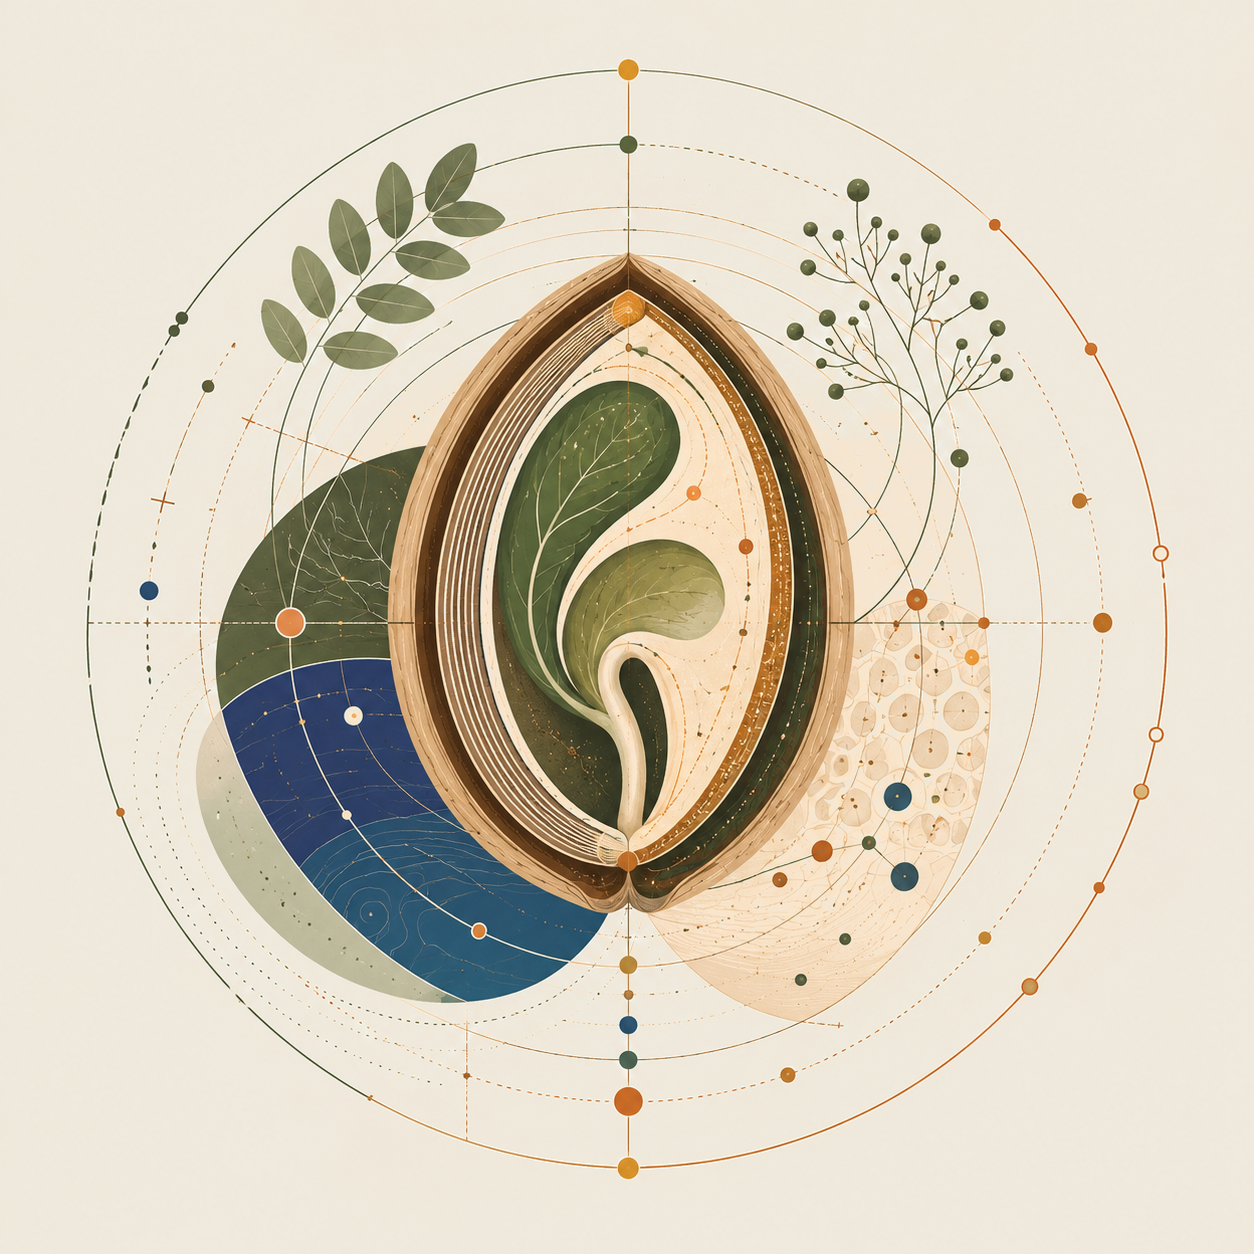
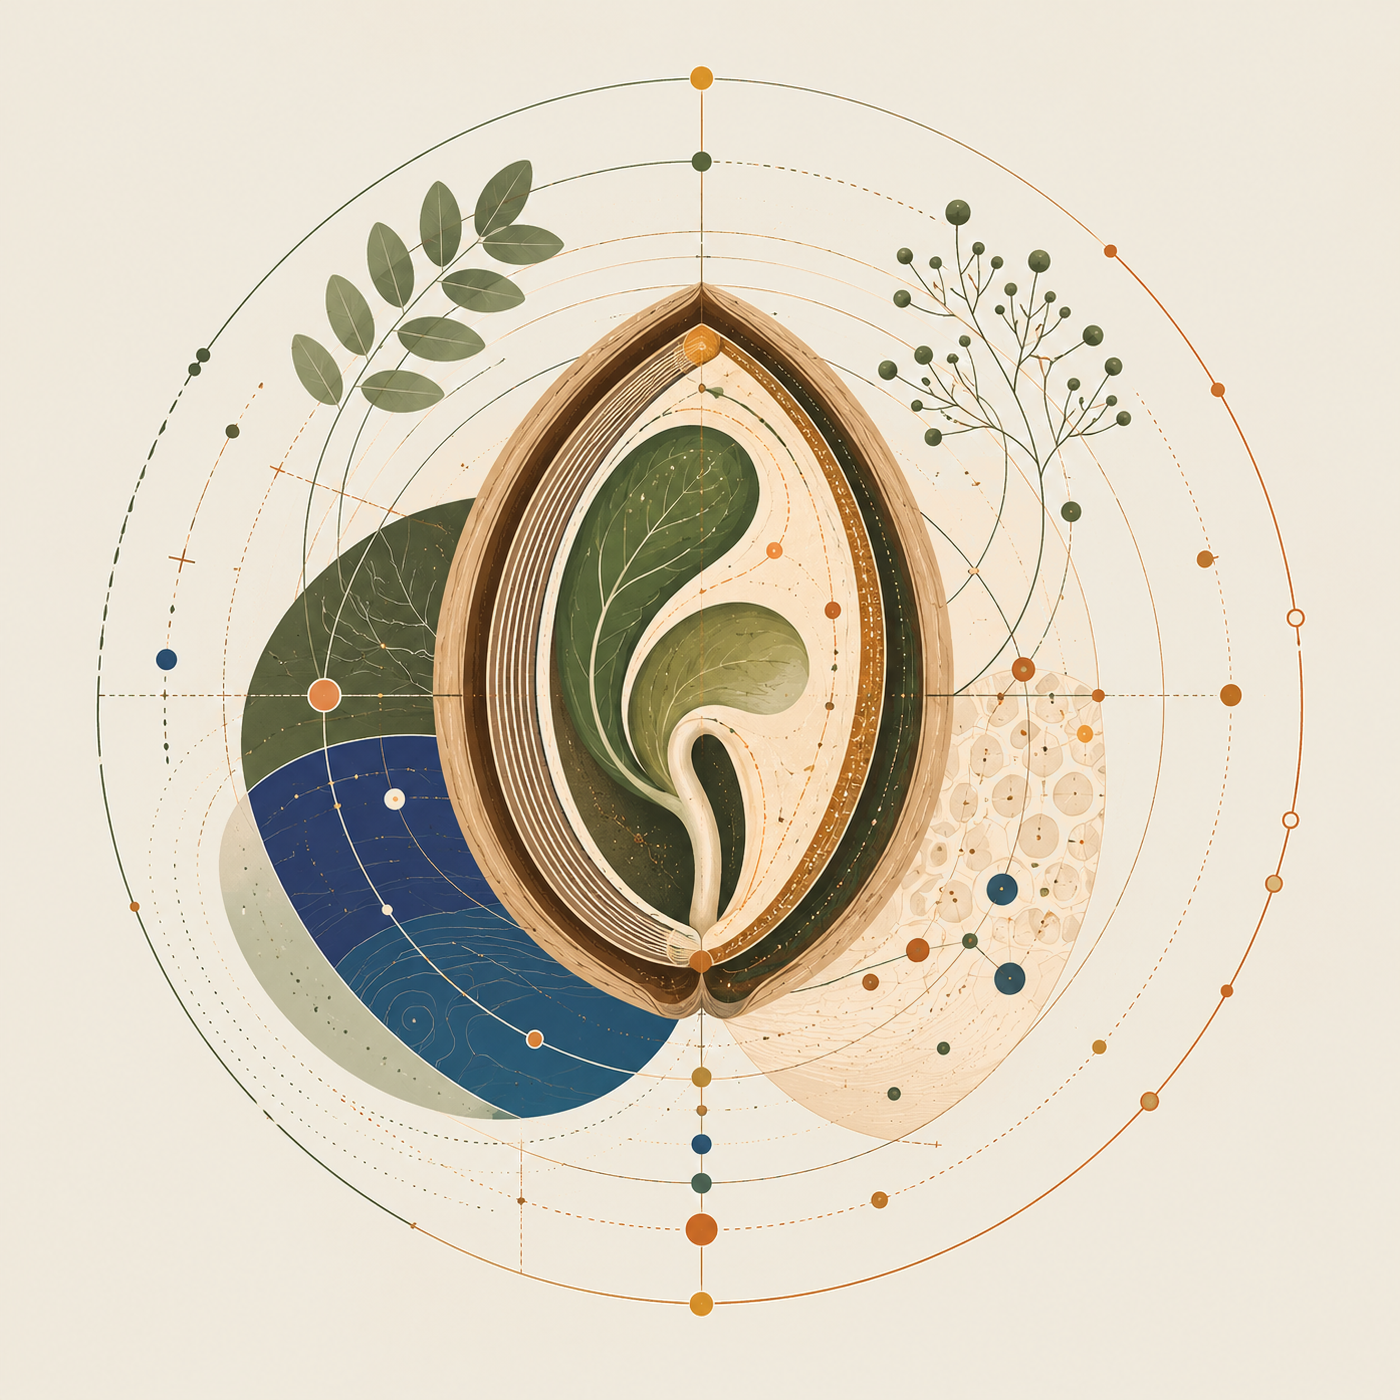
The seed cover at 200 dpi: an upscale is the larger file of the same image the manifest asked for

Changed region(s): [[0.4354, 0.2799, 0.4665, 0.311]]

diff --git a/prompts/image-manifest.md b/prompts/image-manifest.md
@@ -63,7 +63,7 @@ the next build, so the proof PDF always shows exactly what has and has not been 
 | ground-07-convergent-routes | The Body Cannot Skip the Hill | Stage V | Under the first two-column reading spread, across both pages | illustration | A route study: two dozen fine wandering lines entering from the edges of the frame and converging on a single point, each drawn the way a walked path actually goes — meandering, doubling back, never straight. Small plotted points at irregular intervals along each route, like recorded stops. A diffuse rust wash around the convergence. **Composition, and this is the part that matters most.** The drawing runs across a two-page spread, so it is one continuous field 8000 px wide. Two columns of body copy sit in the UPPER HALF of BOTH pages, so the upper half must be nearly empty — a few stray marks at most. Put the density in the LOWER HALF. Keep the middle 400 px calm, because that is the fold. The bottom-left quarter is covered by a photograph on the page, so anything you put there will not be seen: weight the drawing toward the lower right. Put the convergence point low and to the right, well off the fold. Routes may cross the upper half only as single hairlines with no plotted points on them, so the text still reads. | Many separate walks, arriving at the same place. | Pilgrimage drawn as data rather than as devotion. | 2:1 | 8000 × 4000 px | ground-07-convergent-routes.png | generated | — | Section corrected 22 Aug 2026 from “Stage IV” to “Stage V”: the label had drifted a stage behind its essay. The artwork was checked on the page and is right for the ground it lands on — pale linework on charcoal for the dark stages — so this was documentation drift, not a visual fault. Every ground sits on a two-column reading spread, which is TWO pages, so it is 2:1 and the layout gives each page its half. Verified in the paginator 19 Aug 2026. Stage 5: warm paper, so the ink is charcoal. |
 | ground-08-nested-systems | While We’re Here | Stage V | Under the first two-column reading spread, across both pages | illustration | Nested systems drawn as concentric irregular rings — six of them, each a visibly different kind of line: cellular stipple at the innermost, then a branching vascular line, then a street-grid fragment, then an ecological web, then a circuit trace, then a slow astronomical arc at the outermost. One very small human figure standing near the center, no larger than a few millimetres at full size. A diffuse warm amber wash at the center only, fading outward to nothing. **Composition, and this is the part that matters most.** The drawing runs across a two-page spread, so it is one continuous field 8000 px wide. Two columns of body copy sit in the UPPER HALF of BOTH pages, so the upper half must be nearly empty — a few stray marks at most. Put the density in the LOWER HALF. Keep the middle 400 px calm, because that is the fold. The bottom-left quarter is covered by a photograph on the page, so anything you put there will not be seen: weight the drawing toward the lower right. The whole nested figure sits LOW and to the RIGHT, with the outermost arcs running off the bottom and right edges. The six rings must each be a visibly different kind of line, or the whole thing collapses into a target. | Body, family, city, ecosystem, technology, time — and one person inside all of them. | The last ground in the book, and the one that gathers every system the other seven drew separately. | 2:1 | 8000 × 4000 px | ground-08-nested-systems.png | generated | — | Every ground sits on a two-column reading spread, which is TWO pages, so it is 2:1 and the layout gives each page its half. Verified in the paginator 19 Aug 2026. Stage 5: warm paper, so the ink is charcoal. |
 | cover-03-circular-systems | — | Cover | Front cover — the `orb` variant | illustration | The same watercolour-and-ink systems drawing as the existing cover artwork, but composed inside a single circle: a bounded circular field of view, hard-edged, sitting on warm cream paper. NOT empty outside it — the earlier version said "with nothing outside it" and there are four small circular vignettes in the cream around it and several tiny human figures for scale along the bottom. src/styles/cover.css already says the same thing from the other side: the orb treatment turns its clip off for this artwork precisely because it has "inset figures and scale figures outside it in the cream". Inside the circle, read as a whole world without ever resolving into the Earth — broad atmospheric bands of teal and slate curving with the sphere near one limb; a swirl of current or weather blooming in rust, amber and coral across the middle; fine contour lines banding the surface the way isobars band a planet; a branching network of hairlines running through it like root systems or river deltas or blood vessels, deliberately impossible to say which. Small plotted points and connecting lines scattered across it. Two or three tiny human figures standing at the very edge of the circle, at the scale of a millimetre, so the size of the thing is unmistakable. A few small circular inset diagrams outside the main circle, in the cream, like detail figures from the same study. | A circular field of view is the drawing an astronomer and a microscopist both make. At this scale it could be a planet or it could be a single drop of pond water, and the book cannot tell you which — which is the argument: the scale is arbitrary, the attention is what changes. | An alternative cover artwork for the `orb` treatment. A circle on a square is the strongest graphic move available on a 300 mm cover, and it makes the title's 'here' mean somewhere. | 1:1 | 1024 × 1024 px (ChatGPT's largest for 1:1 — 82 dpi at 318 mm) | cover-03-circular-systems.png | generated | — | Transparent PNG or warm cream ground. **Not the Earth**: no recognisable continents, no coastlines, no blue-marble colouring, no latitude/longitude graticule, no space, no stars, no glow or lens flare, no terminator line dividing day from night. The circle is drawn — very slightly out of true, with a hand-inked edge — not rendered as a lit sphere. Keep the upper third of the circle quieter: on the `orb` cover the title sits above and slightly over it. Target lowered 20 Aug 2026 to the largest canvas ChatGPT actually produces. The previous figure asked for a resolution no available generator could reach. Regrounded 20 Aug 2026 with scripts/reground.py: it was drawn on its own cream, (243, 239, 229), four to nine values light of the page, and unclipped that reads as a pale panel on the board. The paper is now #EFE9DC and the drawing is untouched — the correction is weighted by distance from the paper color, so the rust bloom moved by zero. Do not clip this artwork to hide its ground; the inset figures and the millimetre-high scale figures live outside the circle. |
-| cover-04-seed-section | — | Cover | Back cover — the whole board, centred, with the type above and below it | illustration | A seed drawn in longitudinal section, upright at the center of a square cream field. Its coat is laminated into many fine concentric strata of tan and brown — the left flank reads almost exactly like the fore-edge of a stack of pages — closing to a point at the top and at the base. Inside, a pale endosperm holds a green cotyledon with its venation drawn, curled around a cream hypocotyl that hooks down and out through the base of the coat. A hairline vertical axis runs the full height of the image through the seed's point, strung with dots of ochre, rust, teal and green at intervals; a fainter horizontal axis crosses it at mid-height. Around the seed, five or six concentric circles in dark green and rust, some solid and some dashed, are drawn slightly off a common center, with filled and open dots set on them at intervals like readings. A pinnate compound leaf of about a dozen sage leaflets lies across the upper left; a fine branching sprig carrying small round green buds stands at the upper right. Behind and below the seed, flat overlapping fields form a rough disc: dark olive carrying faint branching veins, cobalt, a mid blue banded with contour swirls, and pale sage on the left; on the right a cream field packed with circular cell-like shapes and scattered plotted points joined by hairlines. A small registration cross sits at the upper left. | The thing that already contains what it will become. The same refusal to settle that the front cover makes — cell, planet, root system, map — organised here around a seed in section, with the book's own survey notation laid over it. | The back cover. Adam generated this on 22 Aug 2026, chose it for the back board on 23 Aug, and asked for it large and centred rather than a small plate in the corner. Covers sit outside the 130-page interior ceiling, so it costs no pages. | 1:1 | 1254 × 1254 px as supplied — 106 dpi at the full 300 mm board | cover-04-seed-section.png | generated | — | Supplied at 1254 px square. RUNS AT 106 dpi ON THE BOARD as printed — Adam chose the full-board treatment over the 92 mm plate that would have given it 346. The book has accepted this before and knowingly: cover-03 sits at 82 dpi. What is at risk at this figure is what the drawing is made of, the concentric hairlines and the dots set on them; the flat colour fields and the seed itself will be untroubled. If a larger file of the same image can be generated it should replace this one, and nothing else has to change. Regrounded 23 Aug 2026 with scripts/reground.py: it arrived on its own cream at (253, 241, 225), fourteen values light of the page in red, which would have read as a bright rectangle on a cream board. Paper is now #EFE9DC and the drawing is untouched. NOT A DIAGRAM: the rings, axes and dots are notation, not measurement — they encode nothing, exactly as the front cover's orbital marks encode nothing. That is allowed on a cover and is not allowed on an interior plate, where every drawn plate in this book states something true. |
+| cover-04-seed-section | — | Cover | Back cover — the whole board, centred, with the type above and below it | illustration | A seed drawn in longitudinal section, upright at the center of a square cream field. Its coat is laminated into many fine concentric strata of tan and brown — the left flank reads almost exactly like the fore-edge of a stack of pages — closing to a point at the top and at the base. Inside, a pale endosperm holds a green cotyledon with its venation drawn, curled around a cream hypocotyl that hooks down and out through the base of the coat. A hairline vertical axis runs the full height of the image through the seed's point, strung with dots of ochre, rust, teal and green at intervals; a fainter horizontal axis crosses it at mid-height. Around the seed, five or six concentric circles in dark green and rust, some solid and some dashed, are drawn slightly off a common center, with filled and open dots set on them at intervals like readings. A pinnate compound leaf of about a dozen sage leaflets lies across the upper left; a fine branching sprig carrying small round green buds stands at the upper right. Behind and below the seed, flat overlapping fields form a rough disc: dark olive carrying faint branching veins, cobalt, a mid blue banded with contour swirls, and pale sage on the left; on the right a cream field packed with circular cell-like shapes and scattered plotted points joined by hairlines. A small registration cross sits at the upper left. | The thing that already contains what it will become. The same refusal to settle that the front cover makes — cell, planet, root system, map — organised here around a seed in section, with the book's own survey notation laid over it. | The back cover. Adam generated this on 22 Aug 2026, chose it for the back board on 23 Aug, and asked for it large and centred rather than a small plate in the corner. Covers sit outside the 130-page interior ceiling, so it costs no pages. | 1:1 | 2508 × 2508 px — 200 dpi at the full 300 mm board (EDSR 2× from the 1254 px original) | cover-04-seed-section.png | generated | — | UPSCALED 2× 23 Aug 2026 with EDSR (eugenesiow/edsr-base), 1254 → 2508 px, 106 → 200 dpi on the board. The manifest's own instruction was already standing: 'if a larger file of the same image can be generated it should replace this one, and nothing else has to change' — and an upscale is a larger file of exactly the same image, which regeneration would not have been. Judged before replacing, at the ring band where the drawing is most at risk: the dashed rust arcs and the white venation resolve as continuous strokes, against Lanczos's halo and the native file's stair-steps. EDSR is a conservative model — no invented detail. The 1254 px original is preserved in git history. — earlier note follows. Supplied at 1254 px square. RUNS AT 106 dpi ON THE BOARD as printed — Adam chose the full-board treatment over the 92 mm plate that would have given it 346. The book has accepted this before and knowingly: cover-03 sits at 82 dpi. What is at risk at this figure is what the drawing is made of, the concentric hairlines and the dots set on them; the flat colour fields and the seed itself will be untroubled. If a larger file of the same image can be generated it should replace this one, and nothing else has to change. Regrounded 23 Aug 2026 with scripts/reground.py: it arrived on its own cream at (253, 241, 225), fourteen values light of the page in red, which would have read as a bright rectangle on a cream board. Paper is now #EFE9DC and the drawing is untouched. NOT A DIAGRAM: the rings, axes and dots are notation, not measurement — they encode nothing, exactly as the front cover's orbital marks encode nothing. That is allowed on a cover and is not allowed on an interior plate, where every drawn plate in this book states something true. |
 | field-note-01-lake | — | Field note · Lake Harriet | Field note (verso, full bleed) | personal | The lake, on an ordinary afternoon. Boats moored, nothing happening at length. A boy stands at the railing along the bottom edge of the frame, in profile, fishing. | A personal interlude between parts. | Field note verso. The only place in the book where a real photograph of this life appears at size. | 1:1 | 3213 × 3213 px | field-note-01-lake.jpg | placed | B011 · IMG_5212, Oct 4 2025. See content/plan/photo-selection-02.md | Square center-left crop of the 5712 × 3213 original, offset 349 px. Not retouched, not upscaled. 272 dpi at 300 mm. |
 | field-note-02-dog-tag | — | Field note II→III | Field note (between Parts II and III) | photography | A round metal pet tag lying face up against the dark fur of a sleeping black dog, photographed very close in soft indoor window light. The tag is in sharp focus and carries only a small square code — no name, no legible characters. The dog is entirely out of focus: fur as a soft dark landscape, the slack collar crossing the frame, no face, no eyes, no identifying features visible. | The networked object is wearing a collar. | Field note between Parts II and III: an ordinary thing that has quietly become networked, and the thing is the dog. | 1:1 | 1024 × 1024 px (ChatGPT's largest for 1:1) | field-note-02-dog-tag.png | generated | undefined | Generated 21 Aug 2026 in place of a shot. Framed so the animal is unidentifiable — the real dog appears in real photographs elsewhere in the book, and a generated stand-in must not claim to be her. Face, eyes and markings stay out of frame. Replace with the real photograph whenever it is taken; the slot and framing rule are unchanged. |
 | field-note-02-tag-code | — | Field note II→III | Field note (between Parts II and III) | photography | The tag close up against dark fur, taking about a third of the frame: a worn metal disc carrying a small square dot-matrix pattern, scratches across it from years of clicking against the bowl. No name and no characters anywhere on it. The pattern is generated and encodes nothing — it is a picture of a code, not a code, which is what keeps this plate inside the book's rule that it prints no scannable codes. | A dog with a URL. | The inset. Replaces a lawnmower serial plate that was all brands and barcodes; this one is worn smooth by an animal drinking. | 3:2 | 1020 × 680 px (cropped to 3:2 from a square generation — 370 dpi at 70 mm) | field-note-02-tag-code.png | generated | undefined | Generated 21 Aug 2026 in place of a shot. The code must be plausible but unscannable — softened by wear and focus so no real payload exists. No name, no phone number, no legible characters anywhere. Replace with the real photograph whenever it is taken. |
